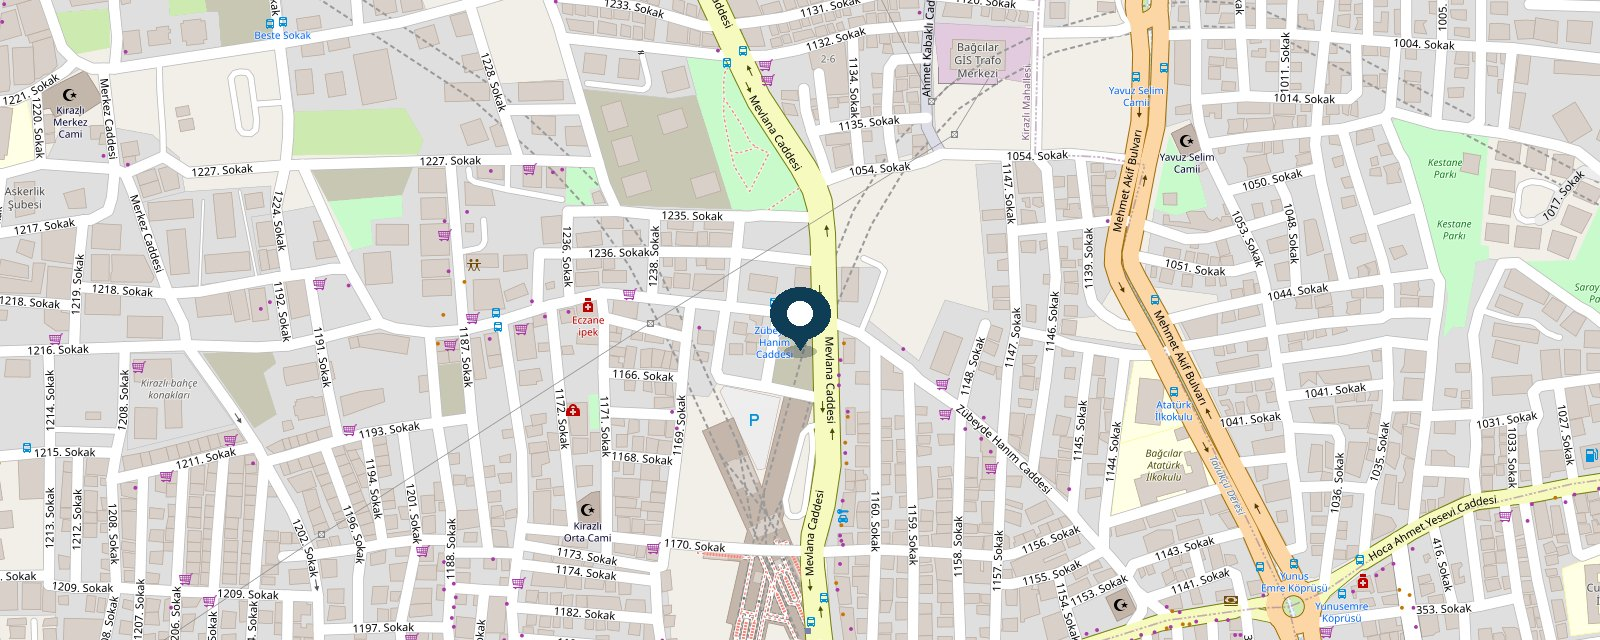
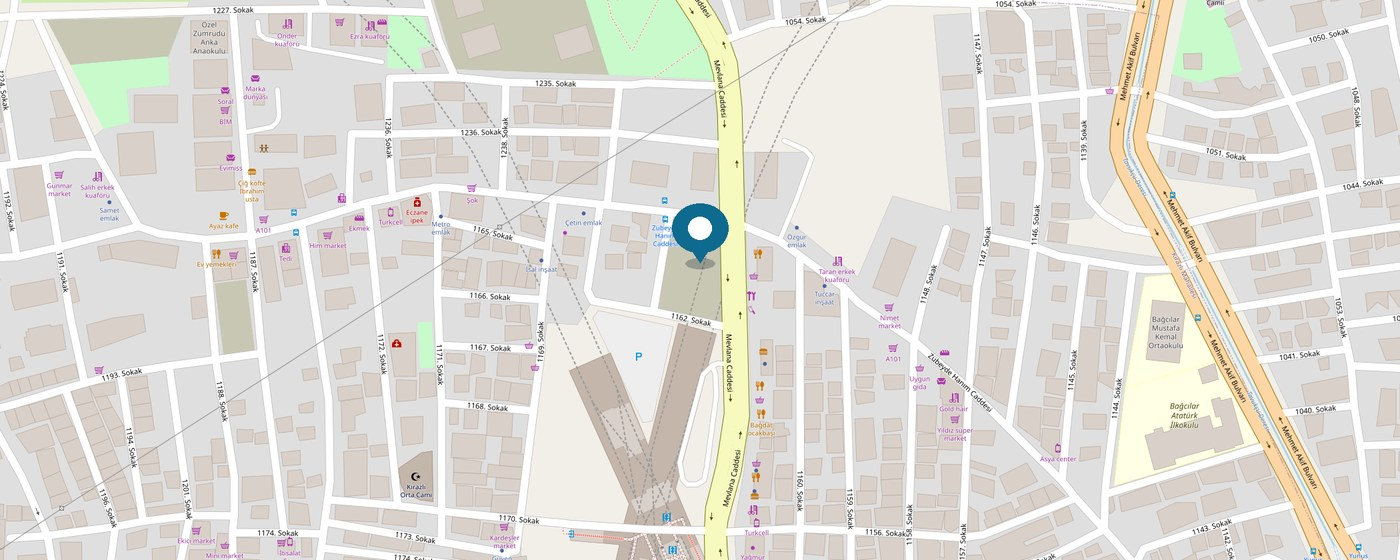
Gorunurluk duzeltmeleri: hero/bant gorselleri belirginlesti, harita yakin plan
- Harita z18 supersample ile yeniden uretildi: kucuk alan, cadde/sokak
  isimleri okunur, buyuk petrol pin; cevresindeki bosluk daraltildi;
  koyu temada karartma kaldirildi
- Hero gorseli: opaklik .55->.9 (koyu), maske hafifletildi - plak
  fotografi artik BELIRGIN
- Bantlar: opaklik ~2x, gecis bantlari inceldi + cam ETIKET eklendi
  ('IMPLANT TEDAVISI' / 'COCUK DIS HEKIMLIGI') - hasta artik ne
  gordugunu biliyor

diff --git a/index.html b/index.html
@@ -101,13 +101,13 @@
   .giris .sar{position:relative;z-index:1}
   .giris-fon{position:absolute;inset:0;z-index:0;pointer-events:none}
   .giris-fon img{width:100%;height:120%;object-fit:cover;
-    object-position:76% 42%;display:block;opacity:.85;will-change:transform}
+    object-position:72% 45%;display:block;opacity:.96;will-change:transform}
   .giris-fon::after{content:"";position:absolute;inset:0;background:
-    linear-gradient(90deg,var(--kagit) 34%,
-      color-mix(in srgb,var(--kagit) 72%,transparent) 56%,
-      color-mix(in srgb,var(--kagit) 24%,transparent) 78%,transparent),
-    linear-gradient(var(--kagit),transparent 16%),
-    linear-gradient(transparent 84%,var(--kagit))}
+    linear-gradient(90deg,var(--kagit) 27%,
+      color-mix(in srgb,var(--kagit) 62%,transparent) 48%,
+      color-mix(in srgb,var(--kagit) 12%,transparent) 68%,transparent 82%),
+    linear-gradient(var(--kagit),transparent 12%),
+    linear-gradient(transparent 86%,var(--kagit))}
   @media (max-width:880px){
     .giris-fon::after{background:
       linear-gradient(90deg,var(--kagit) 12%,
@@ -116,7 +116,7 @@
       linear-gradient(transparent 84%,var(--kagit))}
   }
   @media (prefers-color-scheme: dark){
-    .giris-fon img{opacity:.55;filter:brightness(.82) saturate(.92)}
+    .giris-fon img{opacity:.9;filter:brightness(.96) saturate(.96)}
   }
   @media (max-width:640px){.giris{padding:46px 0 44px}}
   .giris-izgara{display:grid;grid-template-columns:minmax(0,1fr);gap:48px;
@@ -192,7 +192,7 @@
   .bolum-basi p{margin:0 0 26px;color:var(--gri);font-size:16.5px;max-width:56ch}
 
   /* --- konum haritasi karti --- */
-  .harita-bolum{padding:48px 0 0}
+  .harita-bolum{padding:26px 0 0}
   .harita{position:relative;display:block;border-radius:20px;overflow:hidden;
     border:1px solid var(--cizgi);text-decoration:none;
     box-shadow:0 20px 50px -38px var(--glow);
@@ -202,7 +202,7 @@
   .harita img{display:block;width:100%;height:clamp(190px,28vw,300px);
     object-fit:cover;transition:transform .6s cubic-bezier(.2,.7,.3,1)}
   .harita:hover img{transform:scale(1.03)}
-  @media (prefers-color-scheme: dark){.harita img{filter:brightness(.88) saturate(.92)}}
+  @media (prefers-color-scheme: dark){.harita img{filter:brightness(.97)}}
   .harita-bilgi{position:absolute;left:0;right:0;bottom:0;display:flex;
     align-items:center;justify-content:space-between;gap:14px;
     padding:12px 12px 12px 18px;
@@ -272,12 +272,18 @@
   .bant{position:relative;height:clamp(170px,24vw,290px);overflow:hidden;
     border-top:1px solid var(--cizgi);border-bottom:1px solid var(--cizgi)}
   .bant img{position:absolute;left:0;top:-18%;width:100%;height:136%;
-    object-fit:cover;opacity:.34;will-change:transform;display:block}
+    object-fit:cover;opacity:.58;will-change:transform;display:block}
   .bant::before,.bant::after{content:"";position:absolute;left:0;right:0;
-    height:36%;z-index:1;pointer-events:none}
+    height:22%;z-index:1;pointer-events:none}
   .bant::before{top:0;background:linear-gradient(var(--kagit),transparent)}
   .bant::after{bottom:0;background:linear-gradient(transparent,var(--kagit))}
-  @media (prefers-color-scheme: dark){.bant img{opacity:.22;filter:brightness(.85)}}
+  @media (prefers-color-scheme: dark){.bant img{opacity:.55;filter:brightness(.95)}}
+  .bant-etiket{position:absolute;left:30px;bottom:20px;z-index:2;
+    font-family:var(--tek);font-size:11px;letter-spacing:.22em;
+    color:var(--murekkep);padding:8px 15px;border-radius:999px;
+    border:1px solid var(--cizgi);
+    background:color-mix(in srgb, var(--kat) 82%, transparent);
+    backdrop-filter:blur(6px);-webkit-backdrop-filter:blur(6px)}
   .tedavi-bolum{position:relative;overflow:hidden}
   .tedavi-fon{position:absolute;right:0;top:0;height:100%;width:52%;
     object-fit:cover;opacity:.1;pointer-events:none;
@@ -412,7 +418,7 @@
      <a href="tel:+905417324376">0541 732 43 76</a> numarasından ulaşabilirsiniz.</p>
 </div></section>
 
-<div class="bant" data-plx="0.14" aria-hidden="true"><img src="gorsel-implant.jpg" alt="" loading="lazy" decoding="async"></div>
+<div class="bant" data-plx="0.14" aria-hidden="true"><img src="gorsel-implant.jpg" alt="" loading="lazy" decoding="async"><span class="bant-etiket">İMPLANT TEDAVİSİ</span></div>
 
 <section style="padding-top:44px" class="tedavi-bolum"><img class="tedavi-fon" src="gorsel-lamine.jpg" alt="" loading="lazy" decoding="async" aria-hidden="true"><picture aria-hidden="true"><source srcset="logo-isaret.png" media="(prefers-color-scheme: dark)"><img class="filigran" src="logo-isaret-koyu.png" alt="" loading="lazy" decoding="async"></picture><div class="sar izle">
   <div class="bolum-basi">
@@ -470,7 +476,7 @@
   </div>
 </div></section>
 
-<div class="bant" data-plx="0.14" aria-hidden="true"><img src="gorsel-cocuk.jpg" alt="" loading="lazy" decoding="async"></div>
+<div class="bant" data-plx="0.14" aria-hidden="true"><img src="gorsel-cocuk.jpg" alt="" loading="lazy" decoding="async"><span class="bant-etiket">ÇOCUK DİŞ HEKİMLİĞİ</span></div>
 
 <section style="padding-top:44px"><div class="sar izle">
   <div class="bolum-basi"><h2>İletişim</h2></div>
